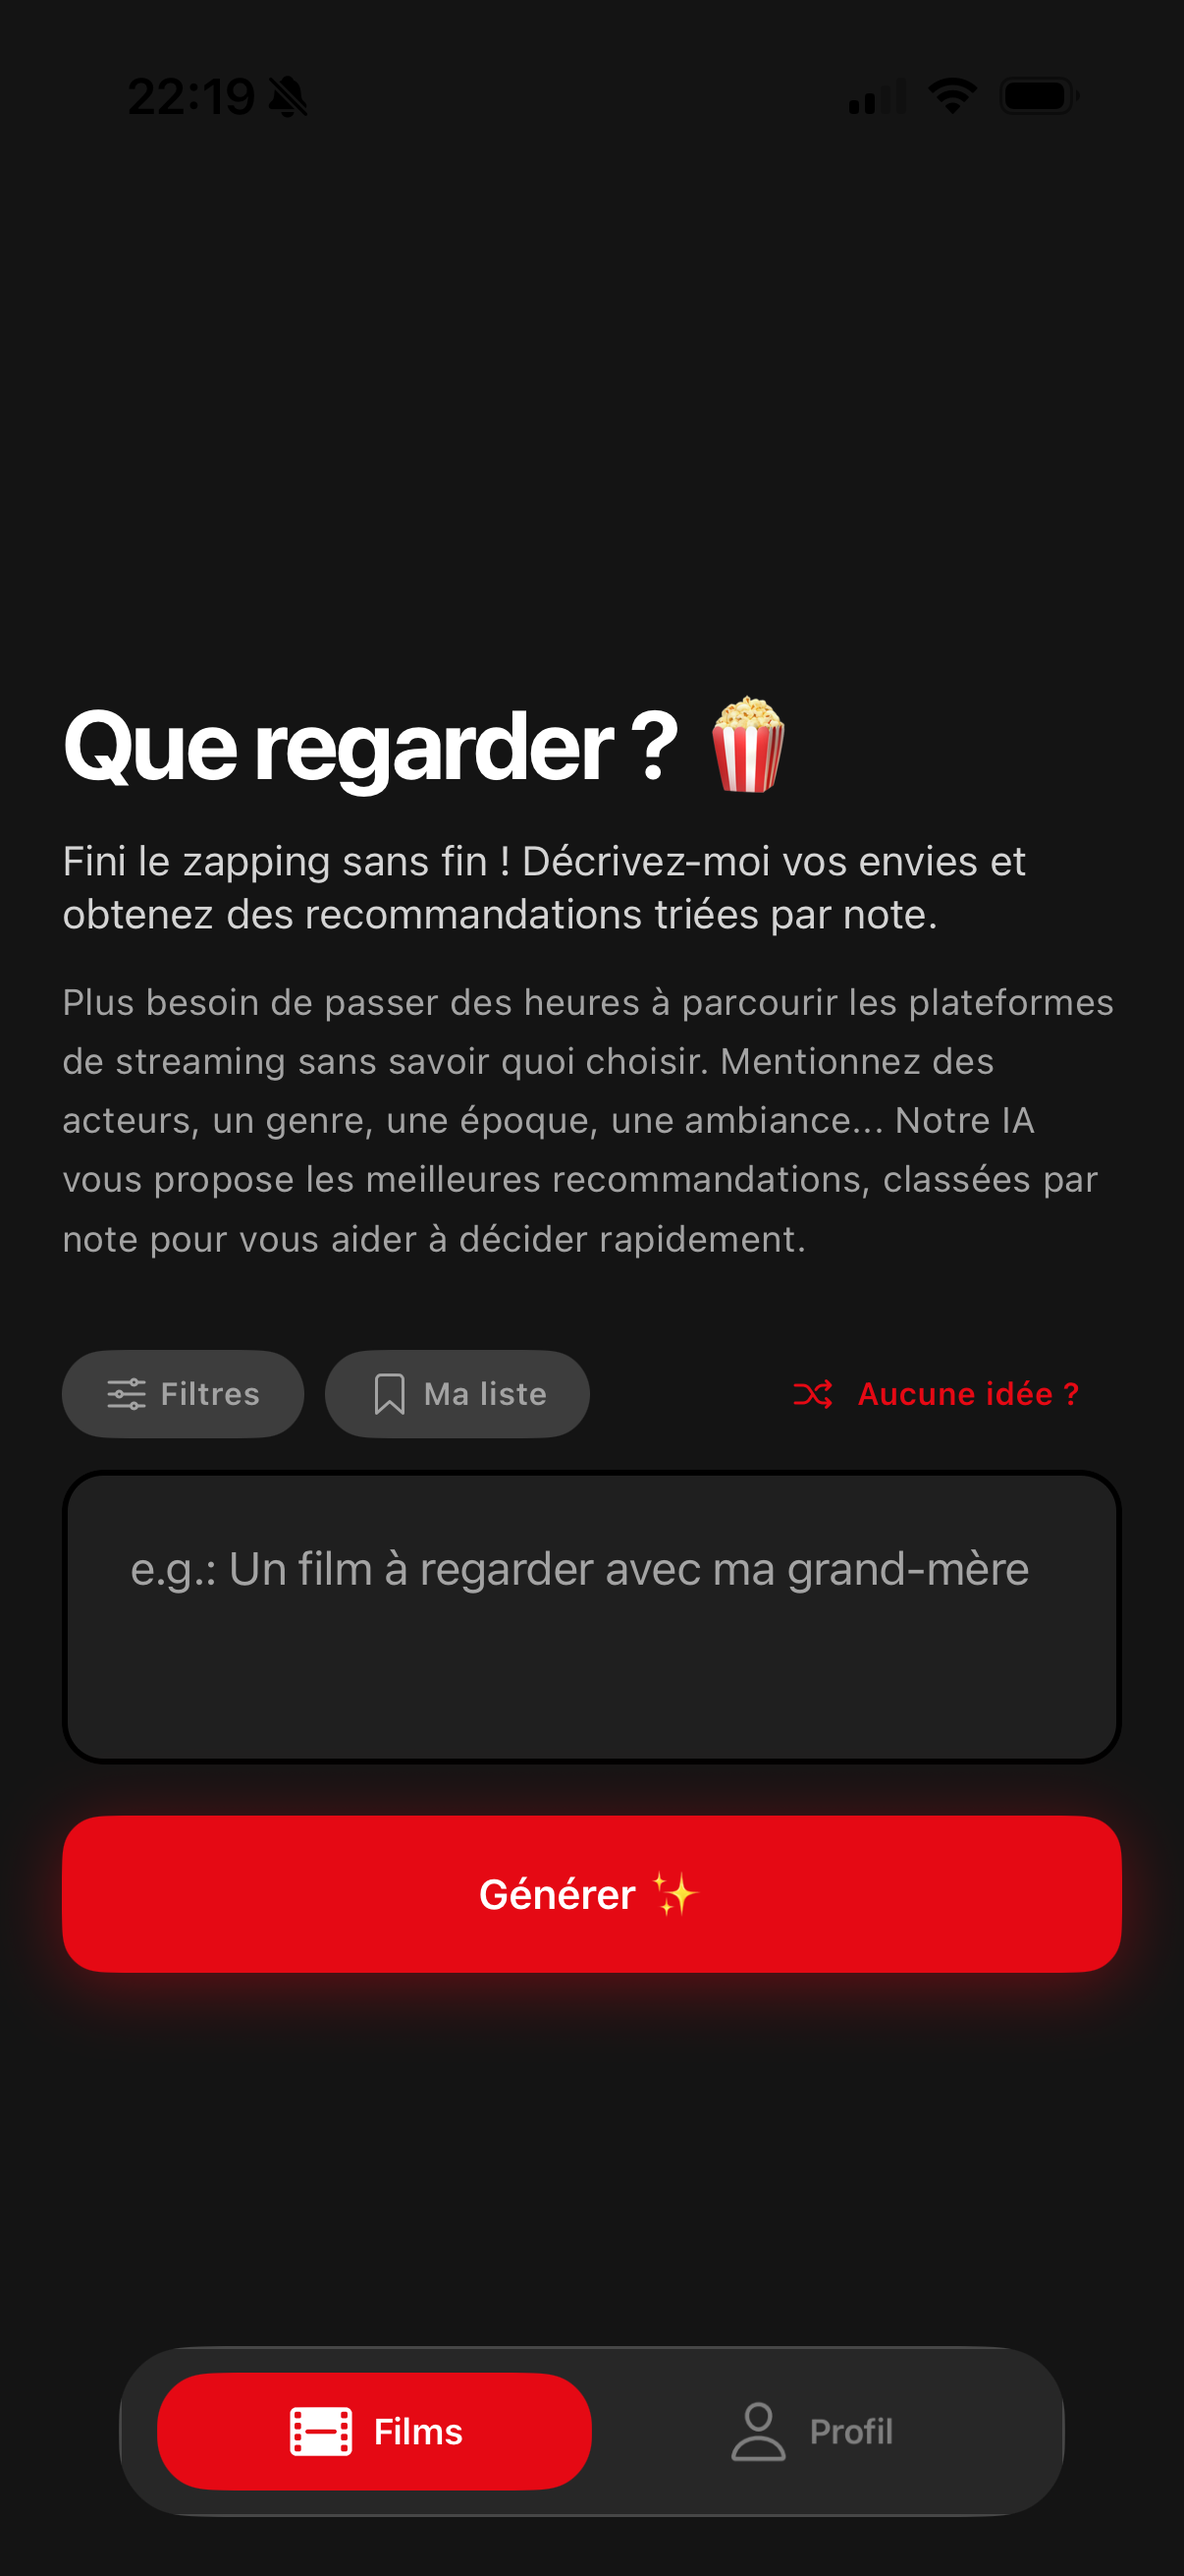
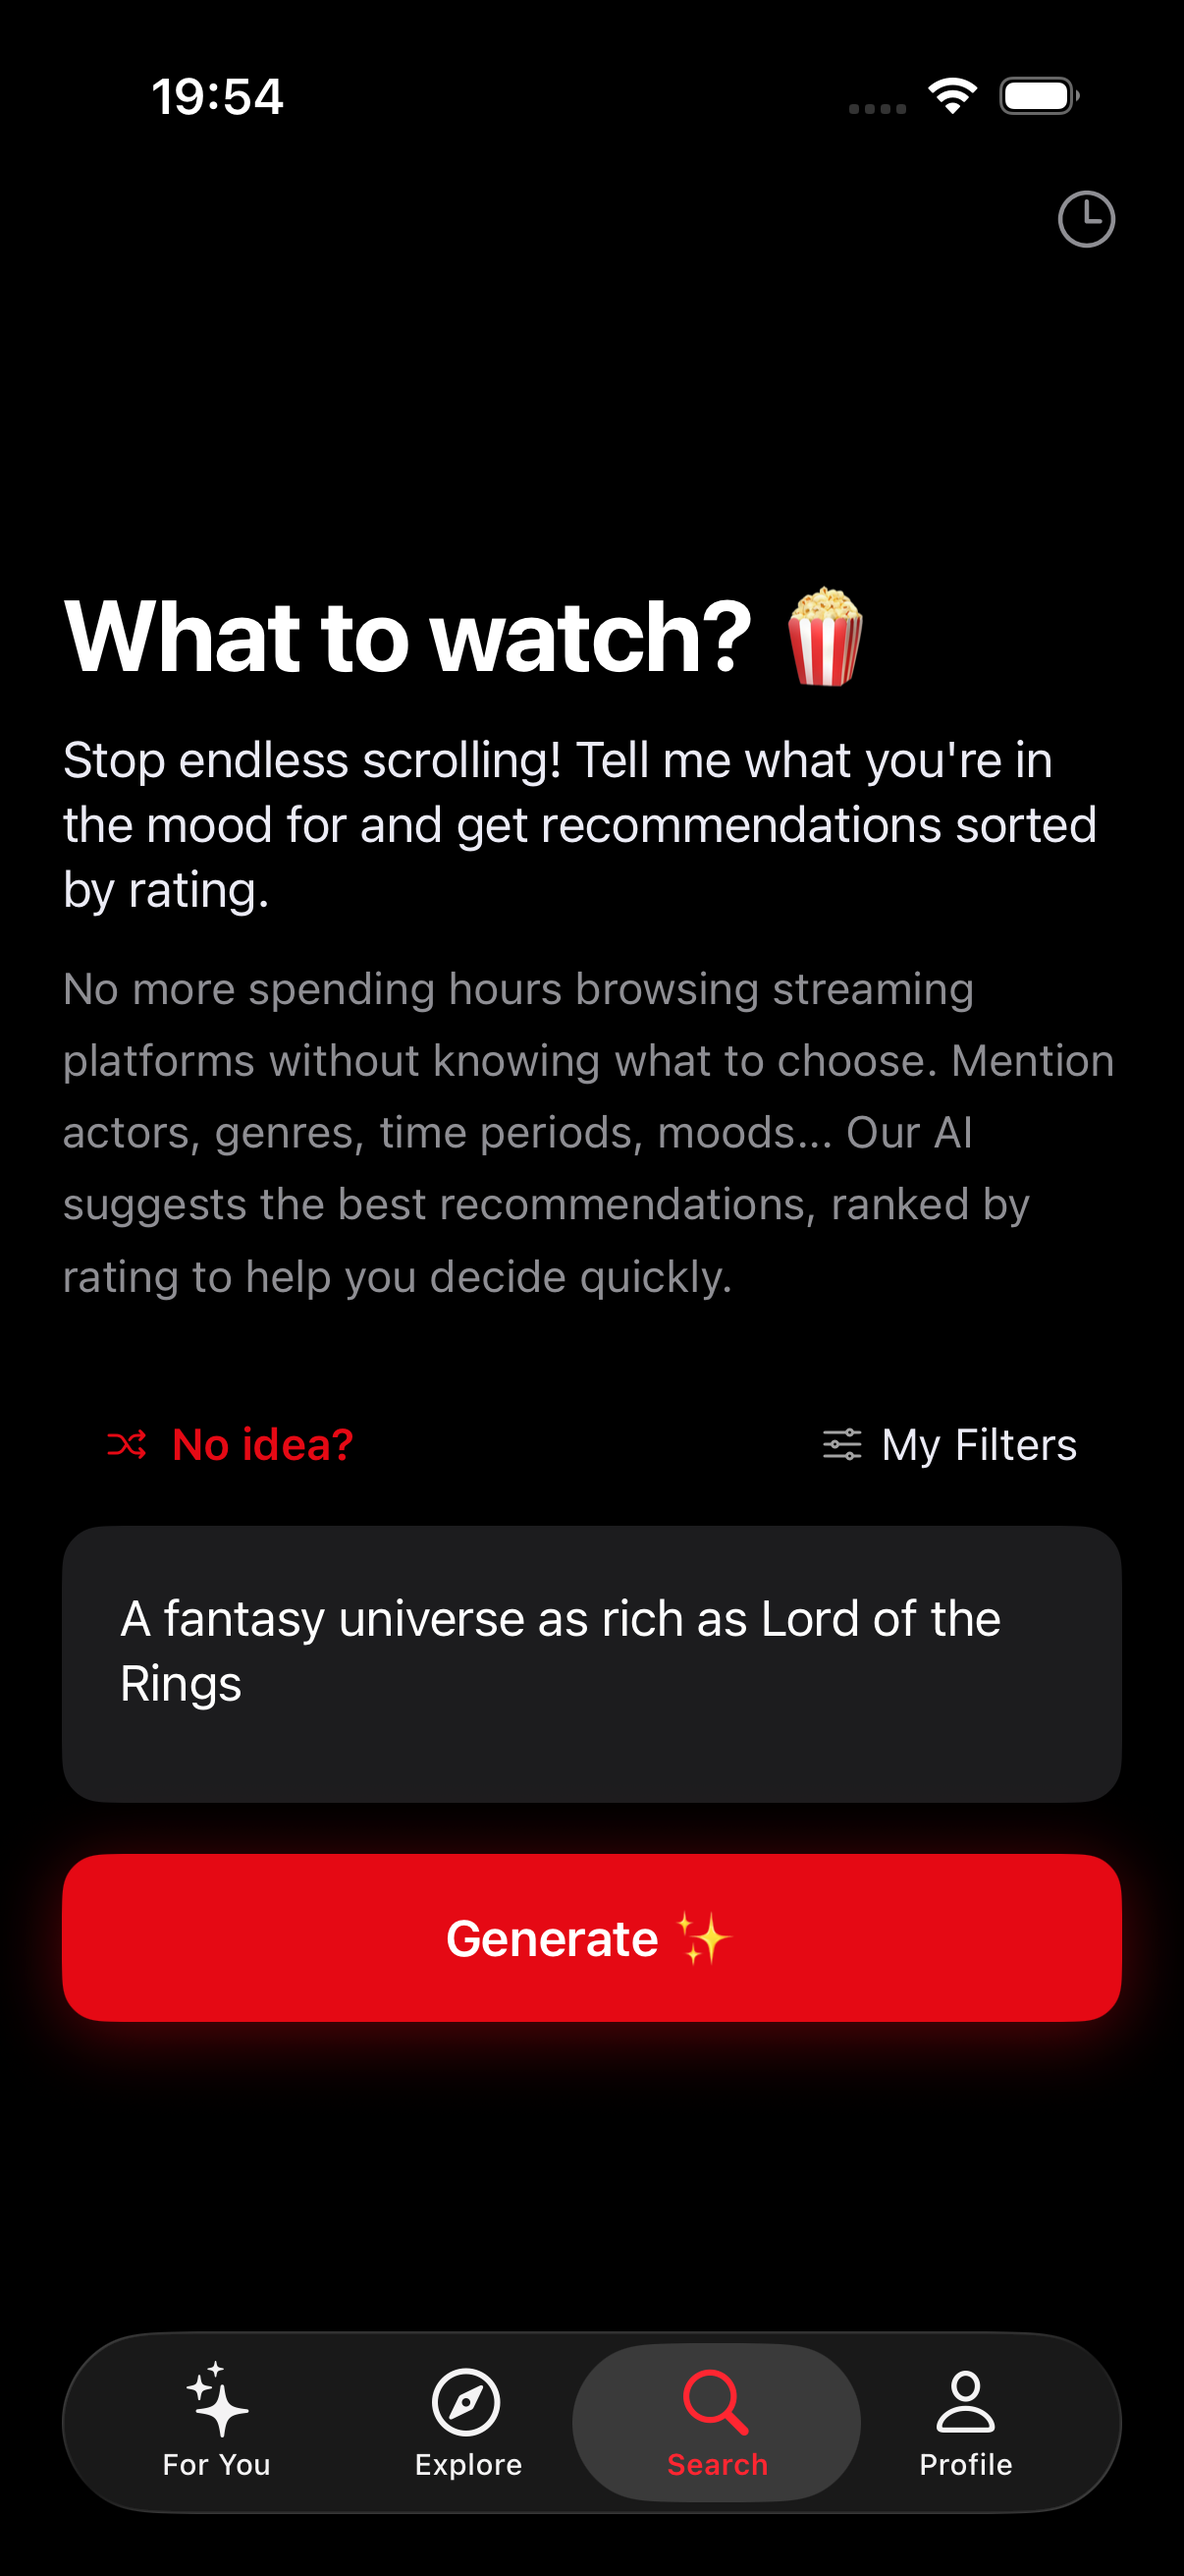
feat: Claude, GPT et DeepSeek dans les IA + screenshot FastFlix à jour

diff --git a/lib/constants/personal.ts b/lib/constants/personal.ts
@@ -74,7 +74,9 @@ export const TECH_STACK = {
     "Remotion",
     "Google Gemini",
     "OpenAI",
+    "Claude",
     "Mistral AI",
+    "DeepSeek",
     "Google Cloud",
     "Figma",
     "Storybook",
@@ -93,6 +95,6 @@ export const SKILL_LEVELS = [
   { name: "Node.js / Hono", level: 85 },
   { name: "Supabase / PostgreSQL", level: 85 },
   { name: "Firebase / Firestore", level: 80 },
-  { name: "Gemini / OpenAI / Mistral", level: 85 },
+  { name: "Gemini / GPT / Claude / Mistral / DeepSeek", level: 85 },
   { name: "Python", level: 70 },
 ] as const;
